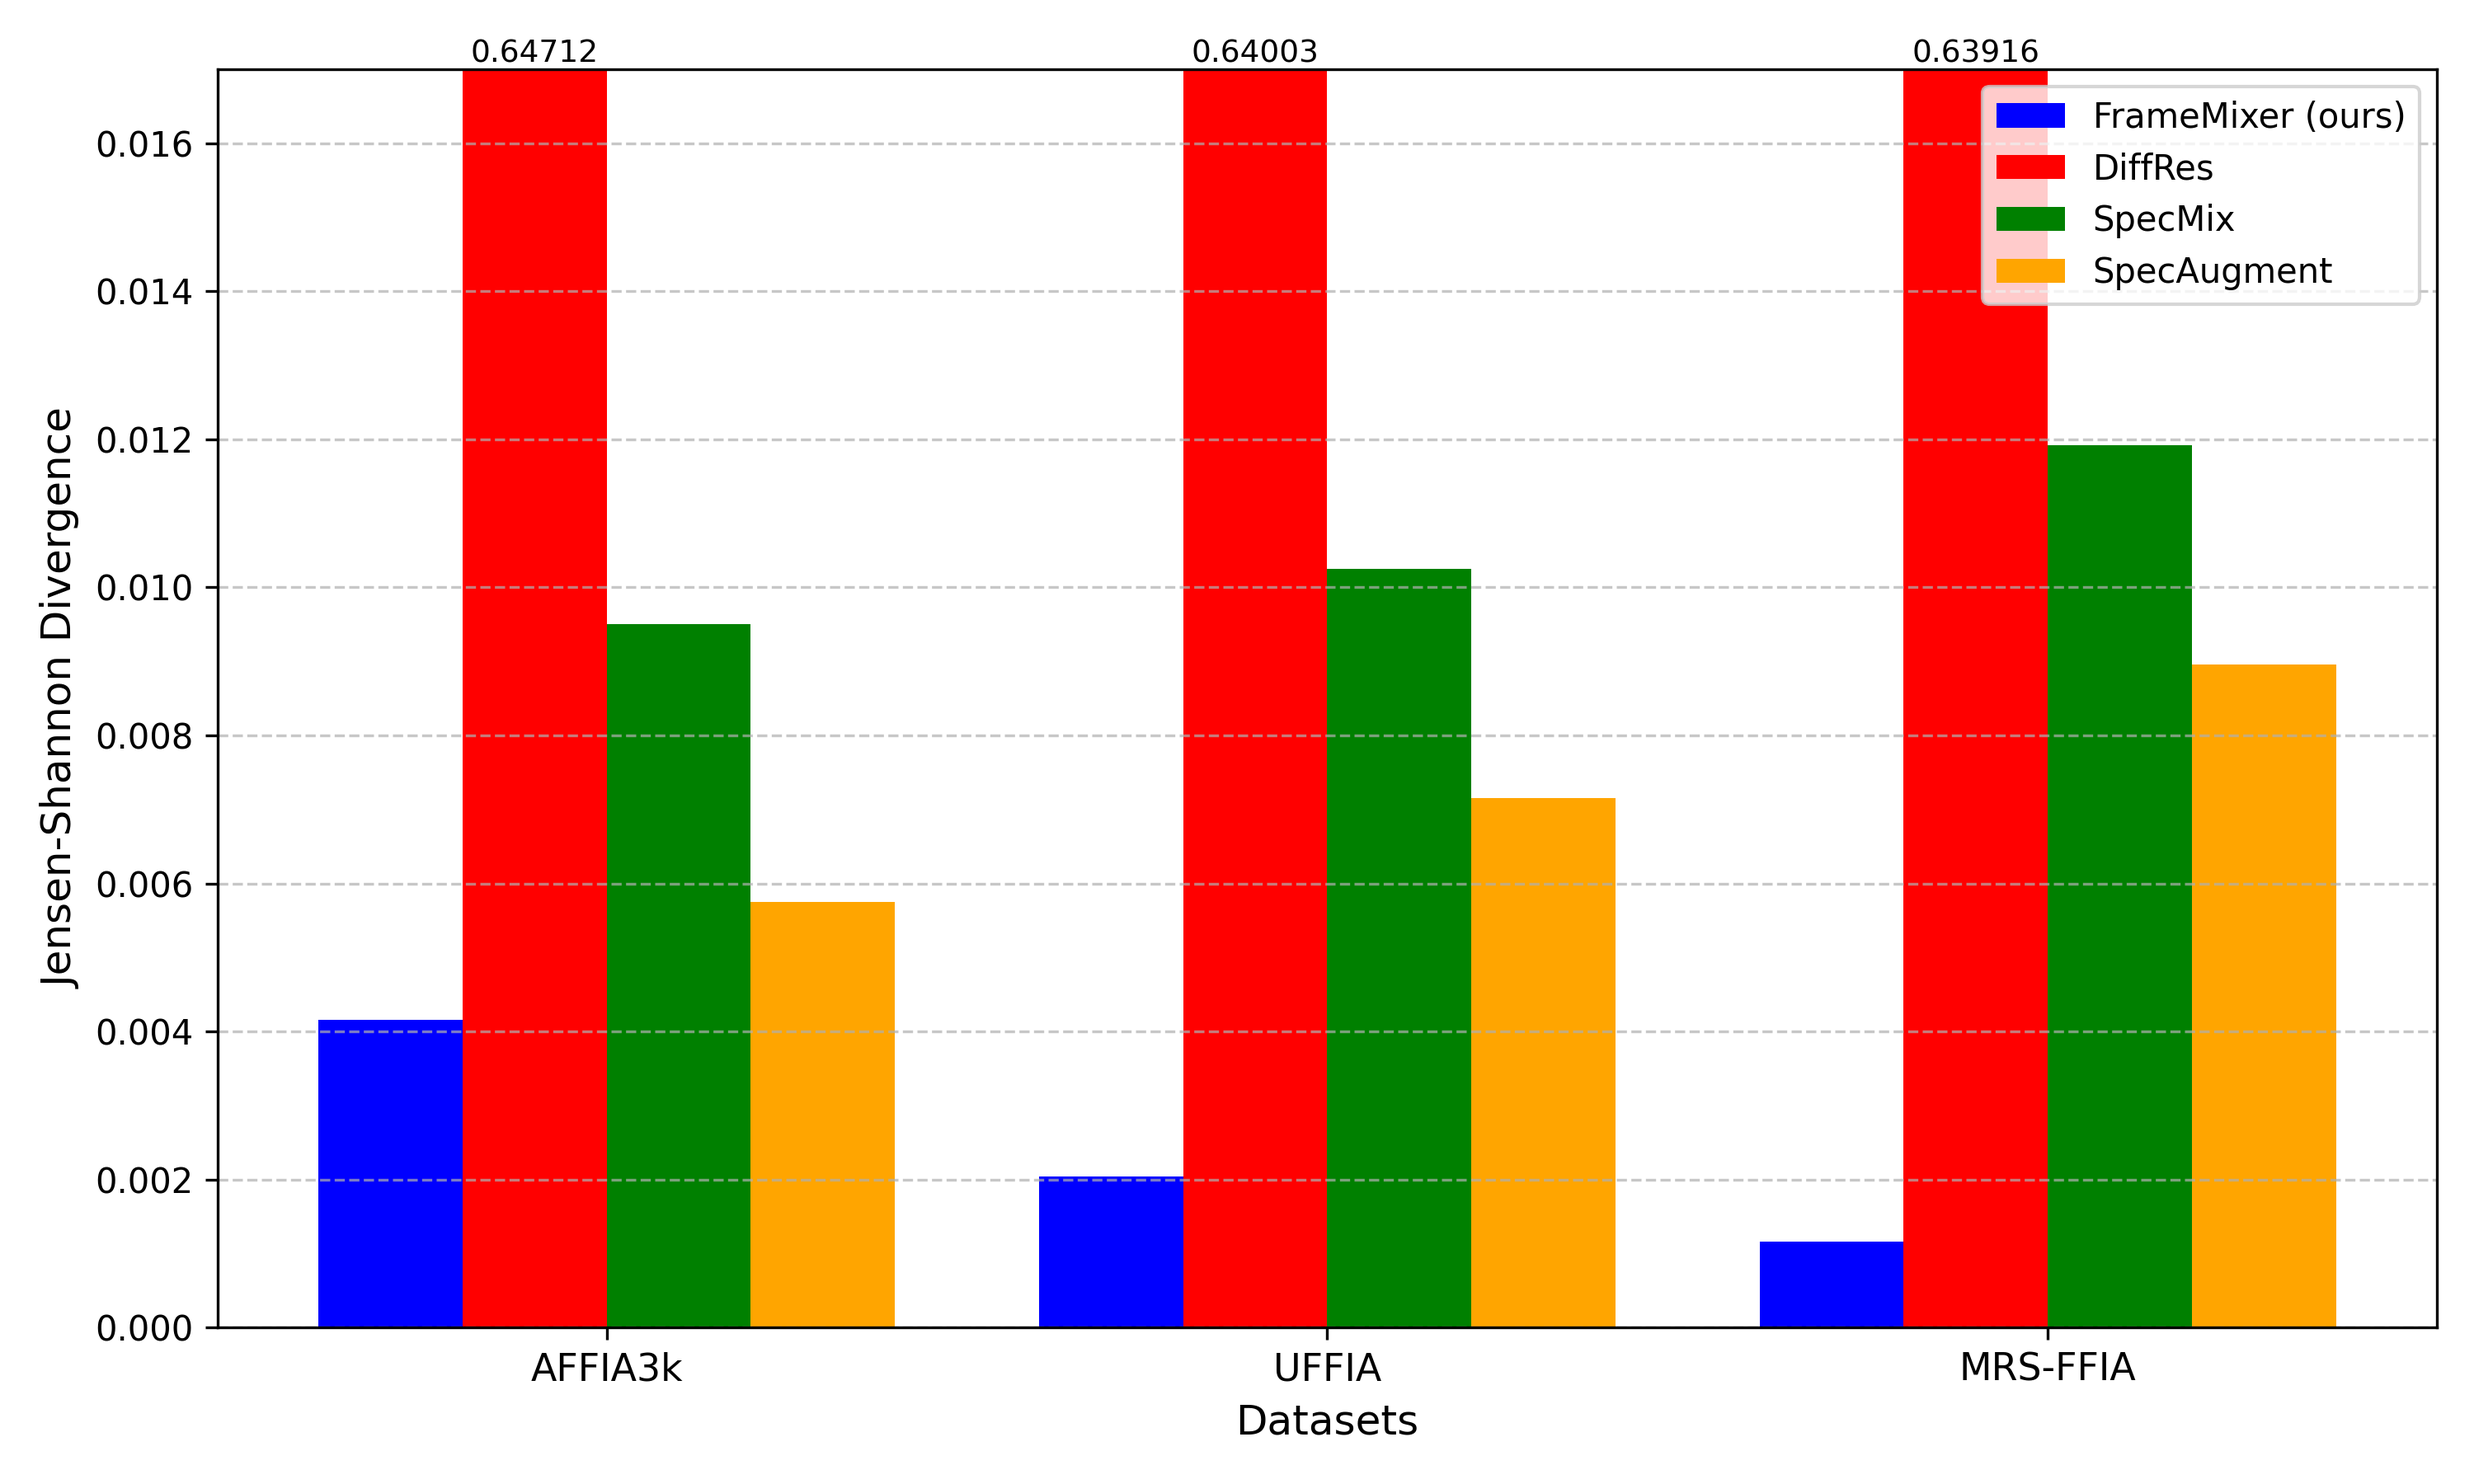
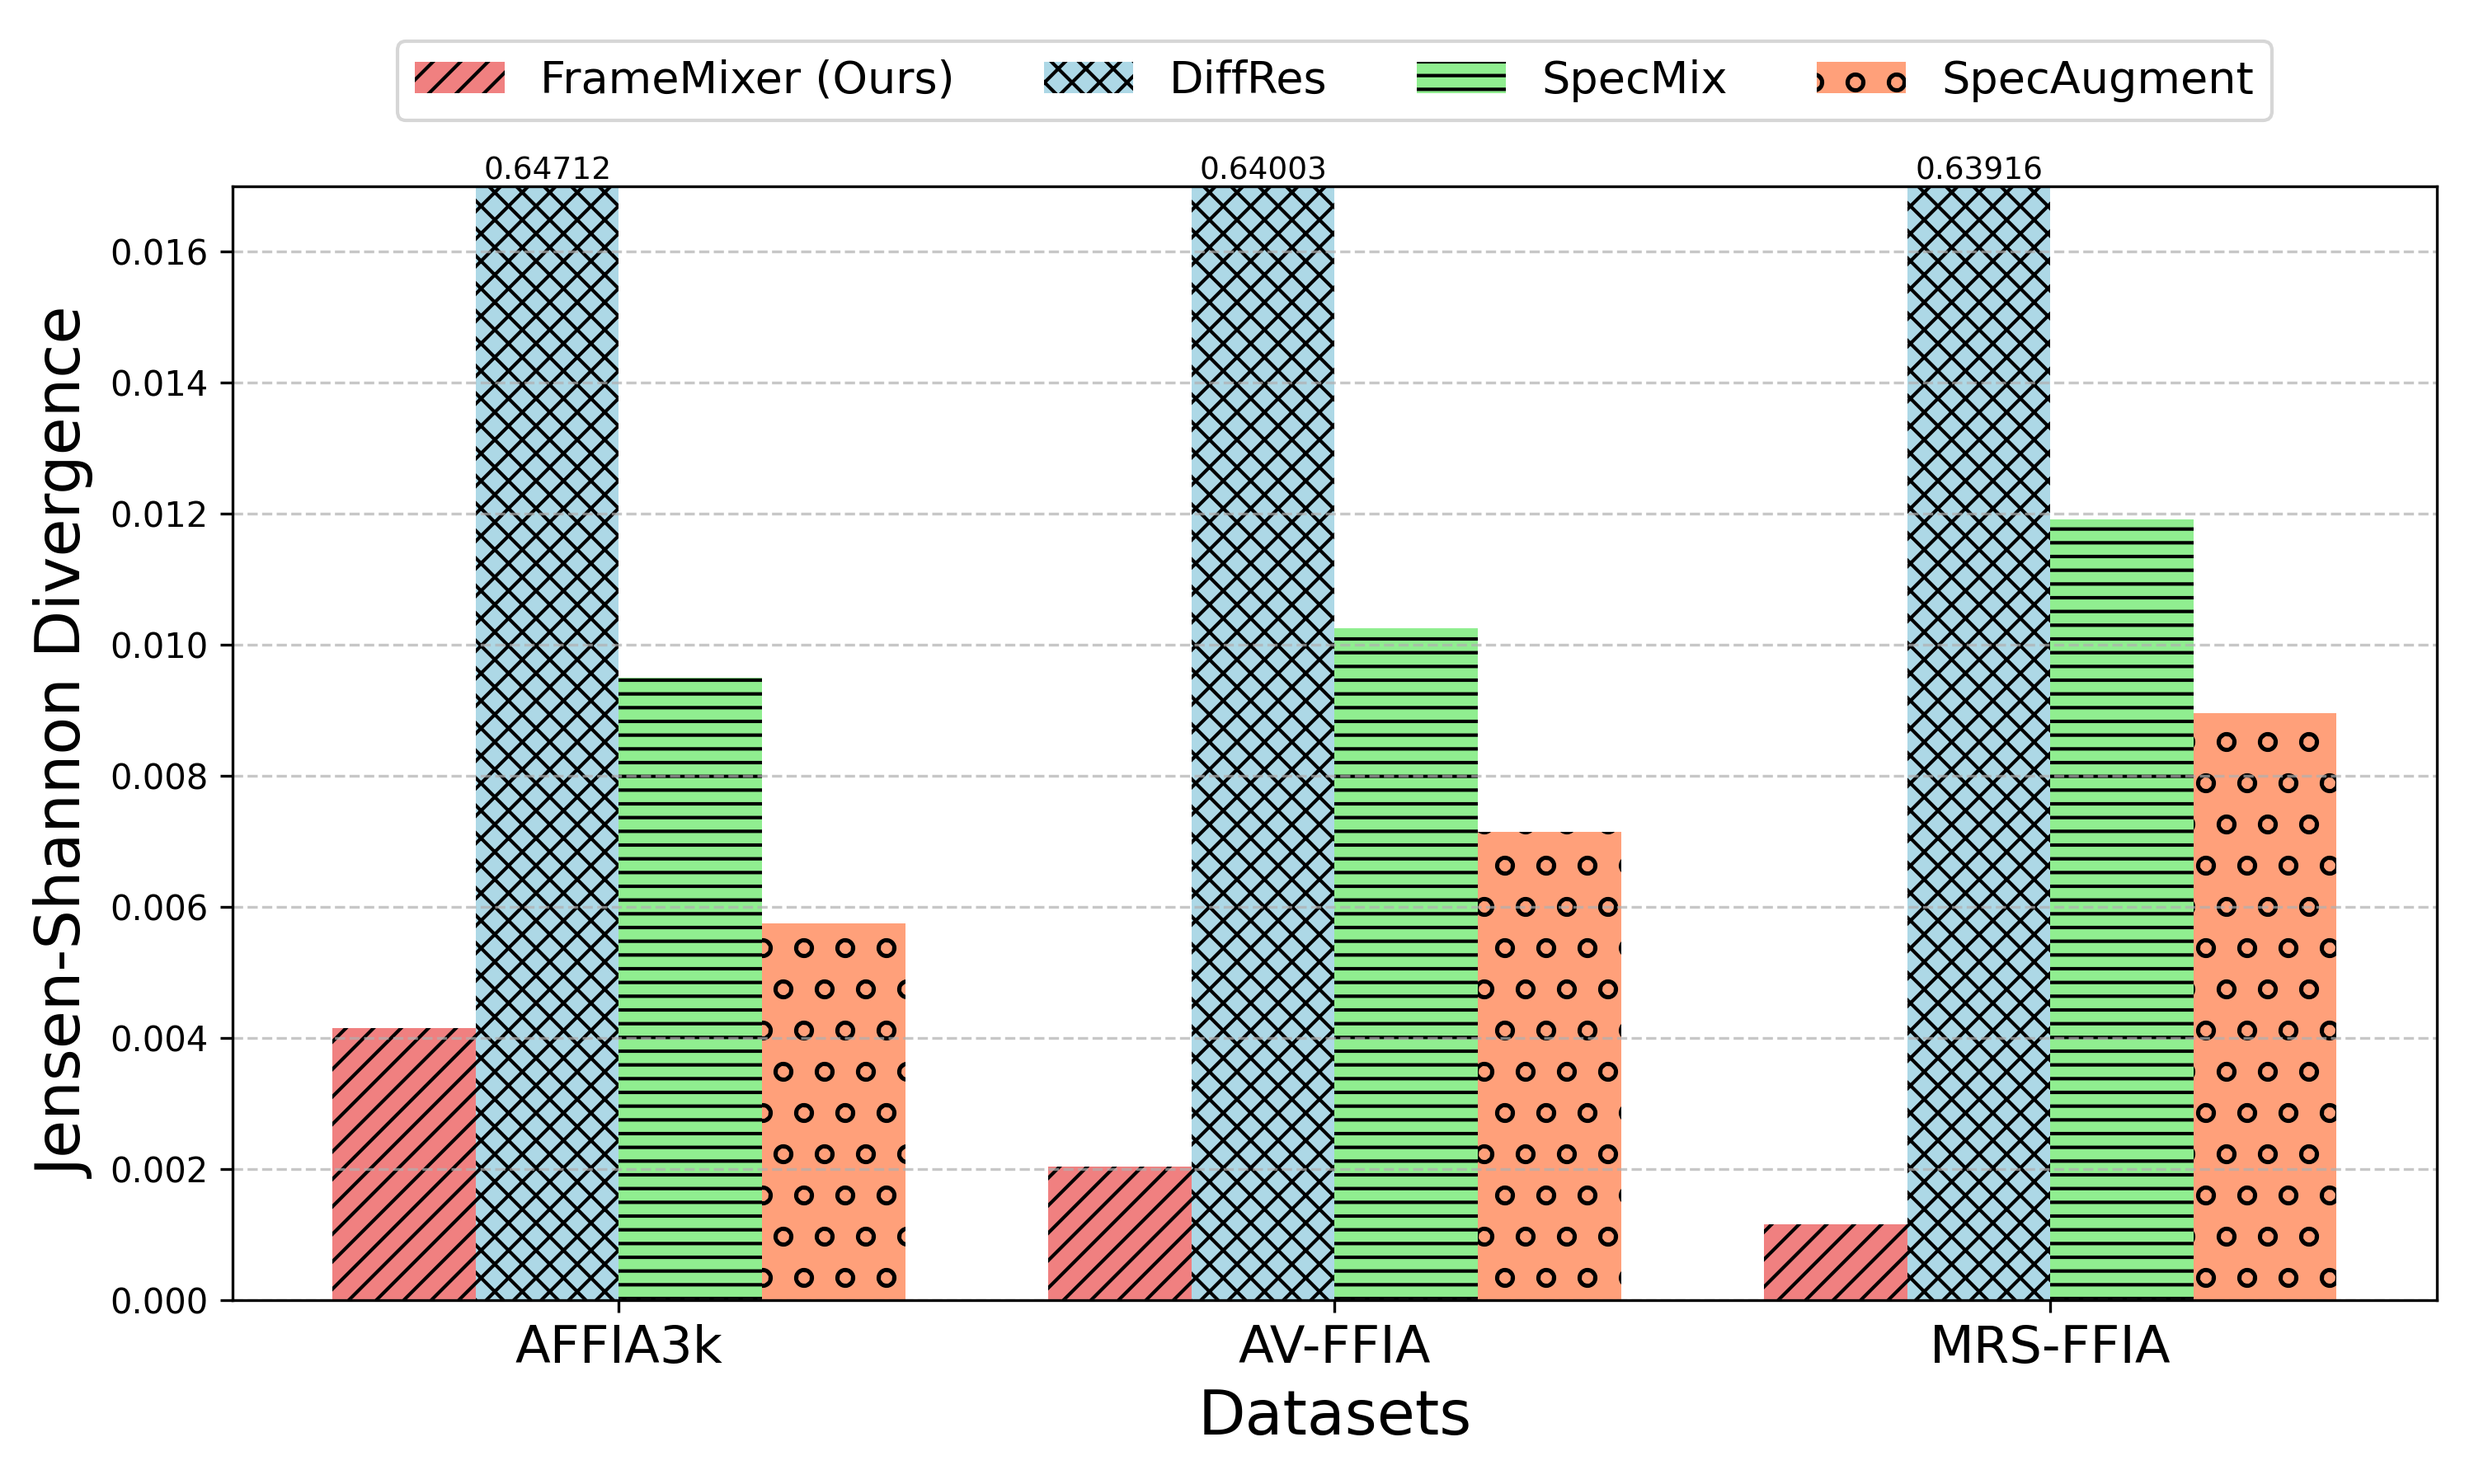
changed jsd plot

diff --git a/common/jsd_plot.py b/common/jsd_plot.py
@@ -1,43 +1,123 @@
+# import matplotlib.pyplot as plt
+# import numpy as np
+
+# # Colors dictionary
+# colors = {
+#     'FrameMixer': 'lightcoral',  # Light red
+#     'DiffRes': 'lightblue',      # Light blue
+#     'SpecMix': 'lightgreen',     # Light green
+#     'SpecAugment': 'lightsalmon' # Light orange
+# }
+
+# # Data
+# datasets = ['AFFIA3k', 'AV-FFIA', 'MRS-FFIA']
+# frame_mix = [0.004156895340062105, 0.0020401528693744305, 0.001156933605670929]
+# diff_res = [0.6471150288215051, 0.6400290883590127, 0.6391609464922259]
+# spec_augment = [0.005746503288929279, 0.007153708117831254, 0.008953749833087768]
+# spec_mix = [0.009501505858049942, 0.01025077953682255, 0.011916801033000793]
+
+# # Bar width and positions
+# x = np.arange(len(datasets))
+# width = 0.2
+
+# # Create figure
+# fig, ax = plt.subplots(figsize=(10, 6))
+
+# # Plot bars with specified colors and hatch patterns
+# bars_frame_mix = ax.bar(x - 1.5 * width, frame_mix, width, label='FrameMixer (Ours)',
+#                         color=colors['FrameMixer'], hatch='///')
+# bars_diff_res = ax.bar(x - 0.5 * width, [0.017] * len(datasets), width, label='DiffRes',
+#                        color=colors['DiffRes'], hatch='xxx')
+# bars_spec_mix = ax.bar(x + 0.5 * width, spec_mix, width, label='SpecMix',
+#                        color=colors['SpecMix'], hatch='---')
+# bars_spec_augment = ax.bar(x + 1.5 * width, spec_augment, width, label='SpecAugment',
+#                            color=colors['SpecAugment'], hatch='o')
+
+# # Annotate actual DiffRes values above the bars
+# for i, val in enumerate(diff_res):
+#     ax.text(x[i] - 0.5 * width, 0.017, f"{val:.5f}", ha='center', va='bottom', fontsize=9)
+
+# # Labels and title
+# ax.set_xlabel('Datasets', fontsize=18)
+# ax.set_ylabel('Jensen-Shannon Divergence', fontsize=18)
+# ax.set_xticks(x)
+# ax.set_xticklabels(datasets, fontsize=15)
+# ax.set_ylim(0, 0.017)
+
+# # Legend outside the plot at the top with font size 13
+# ax.legend(bbox_to_anchor=(0.5, 1.15), loc='upper center', ncol=4, fontsize=13)
+
+# # Grid for better readability
+# ax.grid(axis='y', linestyle='--', alpha=0.7)
+
+# # Save and show the figure
+# plt.tight_layout()
+# plt.savefig("figures/jsd_plot.png", dpi=300)
+# plt.show()
+
+
+
+
+
 import matplotlib.pyplot as plt
 import numpy as np
 
 # Data
-datasets = ['AFFIA3k', 'UFFIA', 'MRS-FFIA']
+datasets = ['AFFIA3k', 'AV-FFIA', 'MRS-FFIA']
 frame_mix = [0.004156895340062105, 0.0020401528693744305, 0.001156933605670929]
 diff_res = [0.6471150288215051, 0.6400290883590127, 0.6391609464922259]
 spec_augment = [0.005746503288929279, 0.007153708117831254, 0.008953749833087768]
 spec_mix = [0.009501505858049942, 0.01025077953682255, 0.011916801033000793]
 
+# Filter data for 'AFFIA3k'
+index = datasets.index('AFFIA3k')
+frame_mix_filtered = [frame_mix[index]]
+diff_res_filtered = [diff_res[index]]
+spec_augment_filtered = [spec_augment[index]]
+spec_mix_filtered = [spec_mix[index]]
+
 # Bar width and positions
-x = np.arange(len(datasets))
+x = np.arange(1)  # Only one dataset now
 width = 0.2
 
 # Create figure
-fig, ax = plt.subplots(figsize=(10, 6))
+fig, ax = plt.subplots(figsize=(6, 6))
 
-# Plot bars with colors
-bars_frame_mix = ax.bar(x - 1.5 * width, frame_mix, width, label='FrameMixer (ours)', color='blue')
-bars_diff_res = ax.bar(x - 0.5 * width, [0.017] * len(datasets), width, label='DiffRes', color='red')
-bars_spec_mix = ax.bar(x + 0.5 * width, spec_mix, width, label='SpecMix', color='green')
-bars_spec_augment = ax.bar(x + 1.5 * width, spec_augment, width, label='SpecAugment', color='orange')
+# Define light shades of colors
+colors = {
+    'FrameMixer': 'lightcoral',  # Light red
+    'DiffRes': 'lightblue',       # Light blue
+    'SpecMix': 'lightgreen',      # Light green
+    'SpecAugment': 'lightsalmon'  # Light orange
+}
+
+# Plot bars using light shades of colors
+bars_frame_mix = ax.bar(x - 1.5 * width, frame_mix_filtered, width, label='FrameMixer (Ours)',
+                        color=colors['FrameMixer'], hatch='///')
+bars_diff_res = ax.bar(x - 0.5 * width, [0.017], width, label='DiffRes',
+                       color=colors['DiffRes'], hatch='xxx')
+bars_spec_mix = ax.bar(x + 0.5 * width, spec_mix_filtered, width, label='SpecMix',
+                       color=colors['SpecMix'], hatch='---')
+bars_spec_augment = ax.bar(x + 1.5 * width, spec_augment_filtered, width, label='SpecAugment',
+                           color=colors['SpecAugment'], hatch='o')
 
 # Annotate actual DiffRes values above the bars
-for i, val in enumerate(diff_res):
-    ax.text(x[i] - 0.5 * width, 0.017, f"{val:.5f}", ha='center', va='bottom', fontsize=9)
+ax.text(x - 0.5 * width, 0.017, f"{diff_res_filtered[0]:.5f}", ha='center', va='bottom', fontsize=9)
 
 # Labels and title
-ax.set_xlabel('Datasets', fontsize=12)
-ax.set_ylabel('Jensen-Shannon Divergence', fontsize=12)
+ax.set_xlabel('Datasets', fontsize=12)  # Reduced font size
+ax.set_ylabel('Jensen-Shannon Divergence', fontsize=12)  # Reduced font size
 ax.set_xticks(x)
-ax.set_xticklabels(datasets, fontsize=11)
+ax.set_xticklabels(['AFFIA3k'], fontsize=12)  # Reduced font size
 ax.set_ylim(0, 0.017)
 
-# Legend
-ax.legend()
+# Legend inside the plot
+ax.legend(loc='upper right', fontsize=10)  # Reduced font size and moved inside
 
-# Grid
+# Grid for better readability
 ax.grid(axis='y', linestyle='--', alpha=0.7)
 
-# Save plot as a figure
+# Save and show the figure
 plt.tight_layout()
-plt.savefig("figures/jsd_plot.png", dpi=300)
+plt.savefig("figures/jsd_plot_affia3k.png", dpi=300)
+plt.show()

diff --git a/common/jsd.py b/common/jsd.py
@@ -107,7 +107,7 @@ def main(args):
     _, train_loader, _, val_loader = get_dataloaders(args, transform)
 
     # Process all batches
-    for batch in tqdm(train_loader):
+    for batch in tqdm(val_loader):
         inputs = batch['waveform'].to(device)  # Ensure data is on the same device
 
         # Apply spectrogram and log-mel extraction
@@ -178,7 +178,7 @@ if __name__ == "__main__":
         batch_size=200,
         dataset='mrsffia',
         data_path='/scratch/project_465001389/chandler_scratch/Datasets/mrsffia',
-        spec_aug="specmix", # fma, diffres, specaugment, specmix
+        spec_aug="fma", # fma, diffres, specaugment, specmix
         num_classes=4,
         sample_rate=22050,
         window_size=1024,

diff --git a/datasets/dataset_selection.py b/datasets/dataset_selection.py
@@ -82,7 +82,7 @@ def get_dataloaders(args, transform):
             seed=args.seed,
             drop_last=False,
             data_path=args.data_path,
-            transform=transform 
+            transform=None 
         )
     else:
         raise ValueError(f"Unsupported dataset: {args.dataset}")
